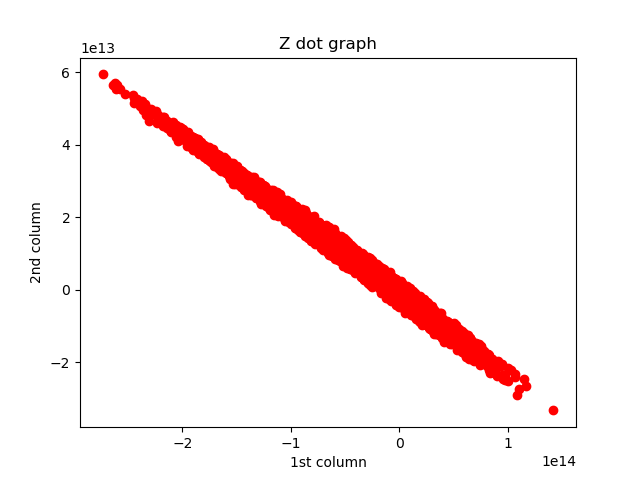
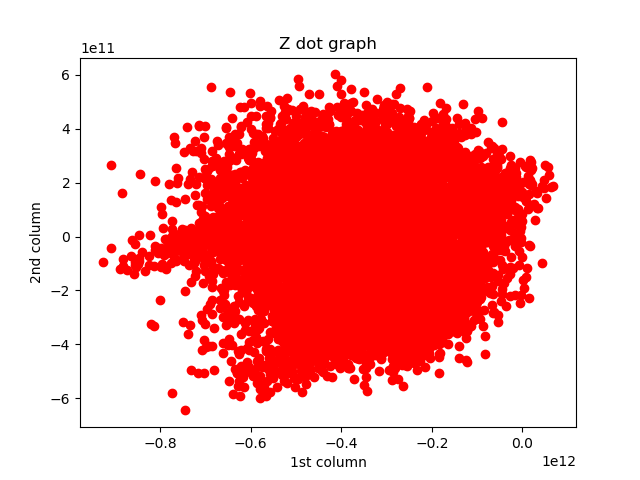
Complete task3

diff --git a/project1-hhyeo/project1_task3.py b/project1-hhyeo/project1_task3.py
@@ -84,6 +84,53 @@ fig.savefig('task3_1.png')
 plt.close(fig)
 
 #task 3-2
+row_list = []
+test_output = h_fc1.eval(feed_dict=\
+    {x: mnist.test.images, y_:mnist.test.labels})
+
+for i in range(10):
+    count = 0
+    for j in range(np.size(mnist.test.labels, 0)):
+        if mnist.test.labels[j, i] == 1:
+            #print(mnist.test.labels[j])
+            row_list.append(test_output[j])
+            count = count + 1
+
+        if count == 10:
+            break
+
+row_arr = np.array(row_list)
+
+#subtract mean
+mean_vector = np.mean(row_arr, 1)
+mean_matrix = np.tile(mean_vector, (500, 1))
+mean_matrix = np.transpose(mean_matrix)
+
+row_arr = row_arr - mean_matrix
+
+#apply SVD
+phi_output = np.matmul(np.transpose(row_arr), row_arr)
+U, s, V = np.linalg.svd(phi_output, full_matrices=True)
+z_output = np.matmul(row_arr, U)
+
+#task 3-1
+fig, ax = plt.subplots(nrows=1, ncols=1)
+ax.set_xlabel('1st column')
+ax.set_ylabel('2nd column')
+ax.set_title('Z dot graph')
+ax.plot(z_output[0:10,0], z_output[0:10,1], 'C1o')
+ax.plot(z_output[10:20,0], z_output[10:20,1], 'C2o')
+ax.plot(z_output[20:30,0], z_output[20:30,1], 'C3o')
+ax.plot(z_output[30:40,0], z_output[30:40,1], 'C4o')
+ax.plot(z_output[40:50,0], z_output[40:50,1], 'C5o')
+ax.plot(z_output[50:60,0], z_output[50:60,1], 'C6o')
+ax.plot(z_output[60:70,0], z_output[60:70,1], 'C7o')
+ax.plot(z_output[70:80,0], z_output[70:80,1], 'C8o')
+ax.plot(z_output[80:90,0], z_output[80:90,1], 'C9o')
+ax.plot(z_output[90:100,0], z_output[90:100,1], 'C0o')
+fig.savefig('task3_2.png')
+plt.close(fig)
+
 
 
 
